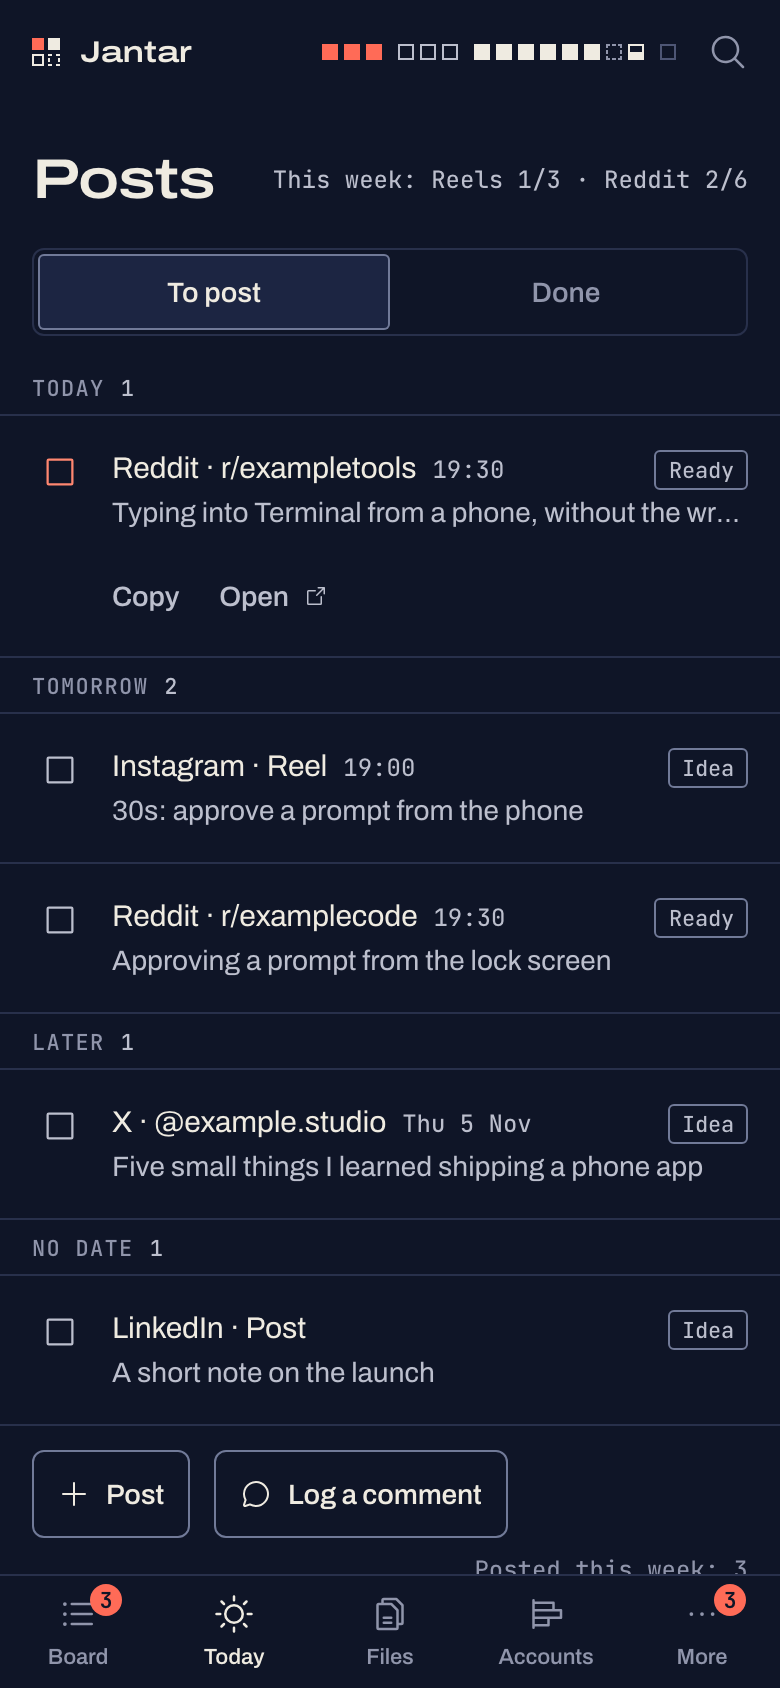
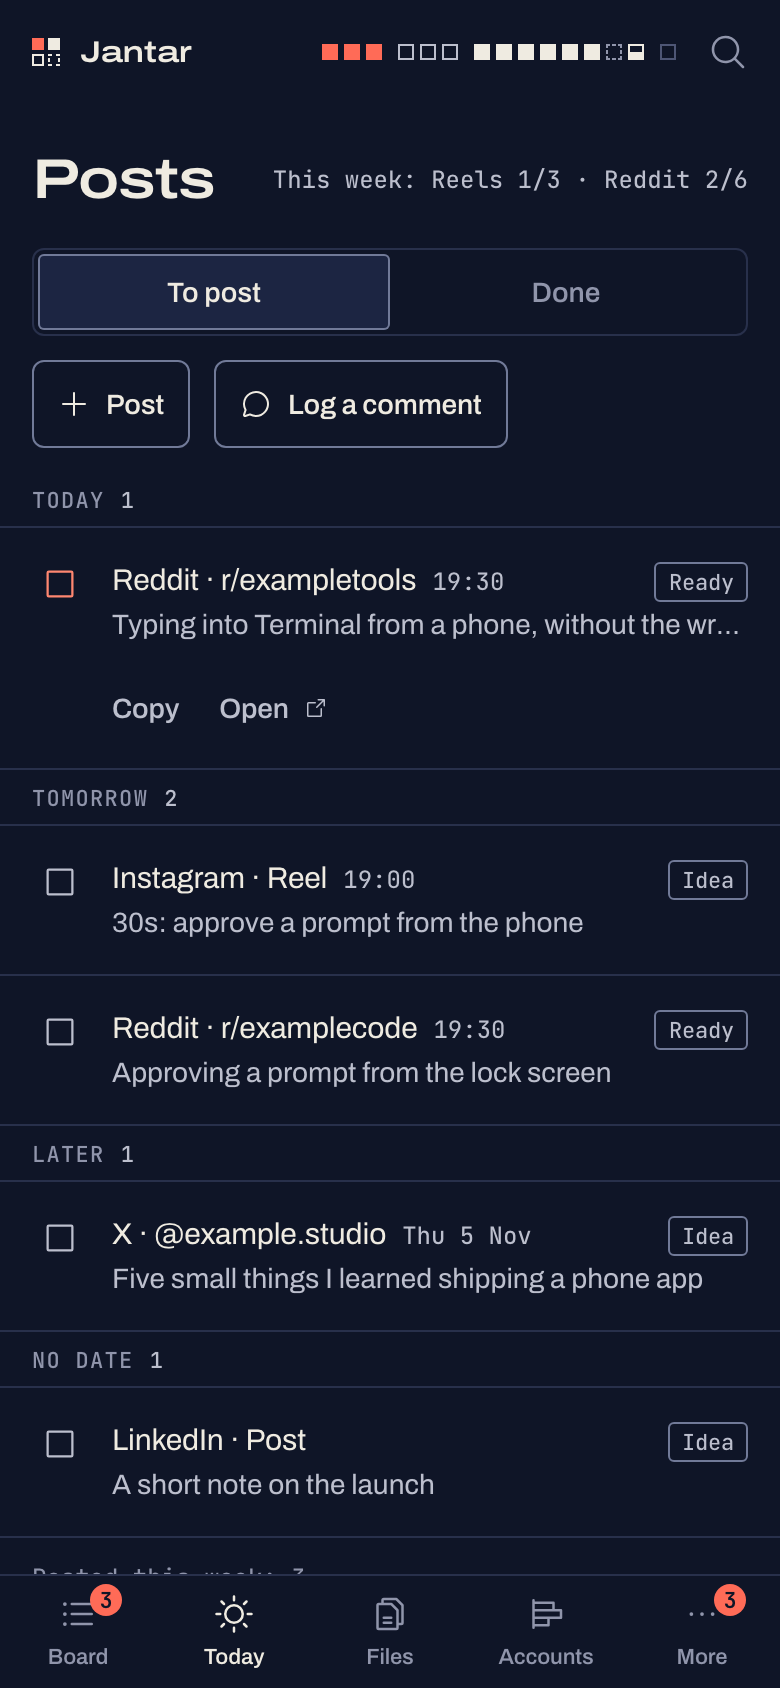
fix(web): Post and Log a comment above the Posts list, and Done never cuts the where
The buttons sat at the foot of Posts, under the whole list: one to many
screens down on Done and on a long To post, and under the Undo bar for
5 s after a save. They now sit under To post | Done on both tabs;
"Posted this week" stays at the foot. A Done row's label wraps instead of
being cut, and its time goes under it when both don't fit, so the where
shows in full at 390 and 320 px. The log sheet drops a stale Not saved
once the link is edited, and its link field labels Enter "done" (Enter
saves). The Posts pictures are drawn again.

diff --git a/packages/web/test/posts.test.tsx b/packages/web/test/posts.test.tsx
@@ -592,14 +592,25 @@ describe('Posts: Log a comment (v0.9)', () => {
   const type = (sheet: HTMLElement, label: string, value: string) => fireEvent.change(within(sheet).getByLabelText(label), { target: { value } });
   const logButton = (sheet: HTMLElement) => within(sheet).getByRole('button', { name: 'Log comment' }) as HTMLButtonElement;
 
-  it('shows the button beside + Post on To post and on Done, off while offline', async () => {
+  // a comes before b in the page.
+  const before = (a: Node, b: Node) => (a.compareDocumentPosition(b) & Node.DOCUMENT_POSITION_FOLLOWING) !== 0;
+
+  it('shows the button beside + Post, above the list, on To post and on Done (a long list never pushes it down); off while offline', async () => {
     const a = render();
-    await screen.findByRole('region', { name: 'Late' });
-    expect((screen.getByRole('button', { name: 'Log a comment' }) as HTMLButtonElement).disabled).toBe(false);
+    const late = await screen.findByRole('region', { name: 'Late' });
+    const log = screen.getByRole('button', { name: 'Log a comment' }) as HTMLButtonElement;
+    expect(log.disabled).toBe(false);
+    expect(log.parentElement).toBe(screen.getByRole('button', { name: 'Add post' }).parentElement);
+    expect(before(screen.getByRole('group', { name: 'Show' }), log)).toBe(true);
+    expect(before(log, late)).toBe(true);
+    // The week's count stays under the list.
+    expect(before(screen.getByRole('region', { name: 'No date' }), screen.getByText('Posted this week: 2'))).toBe(true);
     a.unmount();
     const b = render({ path: '/posts?filter=done' });
-    await screen.findByRole('list', { name: 'Done' });
+    const done = await screen.findByRole('list', { name: 'Done' });
     expect((screen.getByRole('button', { name: 'Log a comment' }) as HTMLButtonElement).disabled).toBe(false);
+    expect(before(screen.getByRole('button', { name: 'Log a comment' }), done)).toBe(true);
+    expect(before(screen.getByRole('button', { name: 'Add post' }), done)).toBe(true);
     b.unmount();
     render({ conn: 'offline' });
     await screen.findByRole('region', { name: 'Late' });
@@ -613,6 +624,8 @@ describe('Posts: Log a comment (v0.9)', () => {
     const link = within(sheet).getByLabelText('Link to your comment') as HTMLInputElement;
     expect(link.type).toBe('url');
     expect(link.getAttribute('autocapitalize')).toBe('off');
+    // Paste, then the keyboard's Done saves.
+    expect(link.getAttribute('enterkeyhint')).toBe('done');
     expect(logButton(sheet).disabled).toBe(true);
     type(sheet, 'Link to your comment', SHARE);
     expect(within(sheet).getByText('Reddit · r/exampletools')).toBeTruthy();
@@ -703,6 +716,9 @@ describe('Posts: Log a comment (v0.9)', () => {
     expect((await within(sheet).findByRole('alert')).textContent).toBe('Not saved. You logged that link already.');
     expect((within(sheet).getByLabelText('Link to your comment') as HTMLInputElement).value).toBe(SHARE);
     expect(screen.getByRole('dialog', { name: 'Log a comment' })).toBeTruthy();
+    // Another link: the old sentence goes.
+    type(sheet, 'Link to your comment', 'https://www.reddit.com/r/exampletools/s/ZyXwVu9876');
+    expect(within(sheet).queryByRole('alert')).toBeNull();
   });
 
   it('Done lists a logged comment with what was written and Open', async () => {
@@ -714,5 +730,17 @@ describe('Posts: Log a comment (v0.9)', () => {
     expect(item.textContent).toContain('Posted Thu 15 Jan 15:44');
     expect(item.textContent).toContain('Answered the question first.');
     expect(within(item).getByRole('link', { name: 'Open the posted link: Reddit · r/exampletools' }).getAttribute('href')).toBe(SHARE);
+  });
+
+  it('Done never cuts the where: the label wraps, and the time goes under it when both do not fit', async () => {
+    const where = 'r/exampledevelopersabcdefgh';
+    const logged = post(41, { kind: 'comment', where, status: 'posted', postedAt: '2026-01-15T15:44:00.000Z', postedUrl: SHARE });
+    render({ path: '/posts?filter=done', list: async () => ({ today: DAY, week: WEEK, posts: [logged] }) });
+    const list = await screen.findByRole('list', { name: 'Done' });
+    const label = within(list).getByText(`Reddit · ${where}`);
+    expect(label.className).not.toContain('truncate');
+    expect(label.className).toContain('break-words');
+    expect(label.parentElement?.className).toContain('flex-wrap');
+    expect(within(list).getByText('Posted Thu 15 Jan 15:44').parentElement).toBe(label.parentElement);
   });
 });

diff --git a/packages/web/src/ui/screens/life/posts/Posts.tsx b/packages/web/src/ui/screens/life/posts/Posts.tsx
@@ -8,9 +8,10 @@
  *                                                 wraps between goals, never cut)
  *   No device gets post reminders.             PushWarning, while posts are on
  *   [ To post | Done ]
- *   LATE / TODAY / TOMORROW / LATER / NO DATE  PostRow
- *   [+ Post] [Log a comment]       Posted this week: 2   (the count wraps to its own
- *                                                 line on a narrow phone)
+ *   [+ Post] [Log a comment]                   on both, above the list, so a long
+ *                                                 list never pushes them down
+ *   LATE / TODAY / TOMORROW / LATER / NO DATE  PostRow (Done: DonePostRow)
+ *   Posted this week: 2
  *
  * Log a comment (v0.9) opens LogCommentSheet: paste the link to a comment
  * already made; it is saved posted now, with a 5 s Undo that deletes it.
@@ -164,6 +165,15 @@ export function Posts({ filter = 'open', id }: PostsProps) {
       <div className="px-16 pb-12 pt-4">
         <Segmented<PostsFilter> label="Show" fill value={filter} onChange={(f) => navigate(routePath(f === 'open' ? { name: 'posts' } : { name: 'posts', filter: f }), { replace: true })} segments={FILTERS} />
       </div>
+      {week ? (
+        <div className="flex flex-wrap items-center gap-x-12 gap-y-8 px-16 pb-12">
+          {addButton}
+          <Button disabled={offline} onClick={() => logSheet.show()}>
+            <ChatCircleIcon size={16} aria-hidden="true" />
+            Log a comment
+          </Button>
+        </div>
+      ) : null}
       {actions.error ? (
         <div className="px-16">
           <NotSaved error={actions.error} />
@@ -204,16 +214,7 @@ export function Posts({ filter = 'open', id }: PostsProps) {
           );
         }}
       </Loaded>
-      {week ? (
-        <div className="flex flex-wrap items-center gap-x-12 gap-y-8 px-16 pt-12">
-          {addButton}
-          <Button disabled={offline} onClick={() => logSheet.show()}>
-            <ChatCircleIcon size={16} aria-hidden="true" />
-            Log a comment
-          </Button>
-          <span className="ml-auto type-mono text-ink-3">Posted this week: {week.posted}</span>
-        </div>
-      ) : null}
+      {week ? <p className="px-16 pt-12 type-mono text-ink-3">Posted this week: {week.posted}</p> : null}
       <PostSheet
         open={sheet.open}
         onOpenChange={sheet.onOpenChange}

diff --git a/packages/web/src/ui/screens/life/posts/LogCommentSheet.tsx b/packages/web/src/ui/screens/life/posts/LogCommentSheet.tsx
@@ -14,7 +14,8 @@
  * The platform and where come from the link alone (postPlaceOf): Jantar
  * never fetches, opens or checks it. A retry of the same body keeps its
  * Idempotency-Key, so a double tap logs once; a failure (the same link
- * twice included) keeps the sheet open with Not saved.
+ * twice included) keeps the sheet open with Not saved, until the link is
+ * edited. Paste, then the keyboard's Done saves (one thumb).
  */
 import { useId, useState, type FormEvent } from 'react';
 import { POST_LINK_MAX, POST_TEXT_MAX, POST_WHERE_MAX, PostBodySchema, PostWhereSchema, postPlaceOf, type PostBody } from '@jantar/protocol';
@@ -91,6 +92,7 @@ function LogForm({ onDone, onLogged }: { onDone: () => void; onLogged: (id: stri
           type="url"
           inputMode="url"
           autoFocus
+          enterKeyHint="done"
           autoCapitalize="off"
           autoCorrect="off"
           spellCheck={false}
@@ -100,7 +102,10 @@ function LogForm({ onDone, onLogged }: { onDone: () => void; onLogged: (id: stri
           maxLength={POST_LINK_MAX}
           aria-invalid={link.trim() !== '' && !place}
           aria-describedby={`${id}-place`}
-          onChange={(e) => setLink(e.target.value)}
+          onChange={(e) => {
+            setLink(e.target.value);
+            w.clear();
+          }}
         />
       </Field>
       <p id={`${id}-place`} aria-live="polite" className={place ? 'type-mono text-ink-2' : 'type-small text-ink-2'}>

diff --git a/packages/web/src/ui/screens/life/posts/PostRow.tsx b/packages/web/src/ui/screens/life/posts/PostRow.tsx
@@ -7,7 +7,9 @@
  * square is ember (design rule 3: what needs you now). A tap elsewhere opens
  * the sheet. Notes never show on a row.
  *
- * Done: "Posted Mon 2 Nov 19:41" or "Skipped", and Open for the posted link.
+ * Done: the label never cut ("Reddit · r/exampletools"; it wraps, and the
+ * time goes under it when both don't fit), "Posted Mon 2 Nov 19:41" or
+ * "Skipped", and Open for the posted link.
  *
  * Copy writes to the clipboard on the user's tap; Open is a new tab with no
  * opener and no referrer. Jantar never posts anything anywhere.
@@ -106,8 +108,8 @@ export function DonePostRow({ post, tz, onOpen }: { post: Post; tz?: string | nu
       </span>
       <div className="min-w-0 flex-1">
         <button type="button" className="block w-full py-4 pr-8 text-left coarse:min-h-44 coarse:py-10" onClick={() => onOpen(post)}>
-          <span className="flex items-baseline gap-8">
-            <span className="min-w-0 truncate type-row text-ink-3">{label}</span>
+          <span className="flex flex-wrap items-baseline gap-x-8">
+            <span className="min-w-0 break-words type-row text-ink-3">{label}</span>
             <span className="ml-auto flex-none type-mono text-ink-3">{doneText(post, tz)}</span>
           </span>
           {line ? <span className="mt-2 block truncate type-small text-ink-3">{line}</span> : null}
